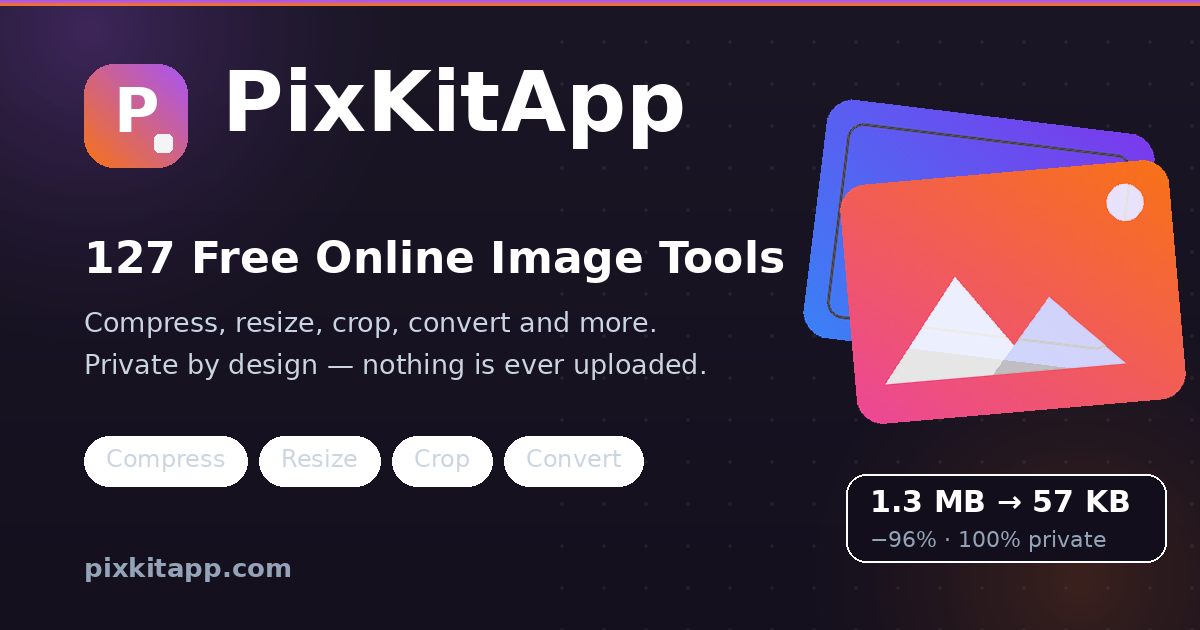
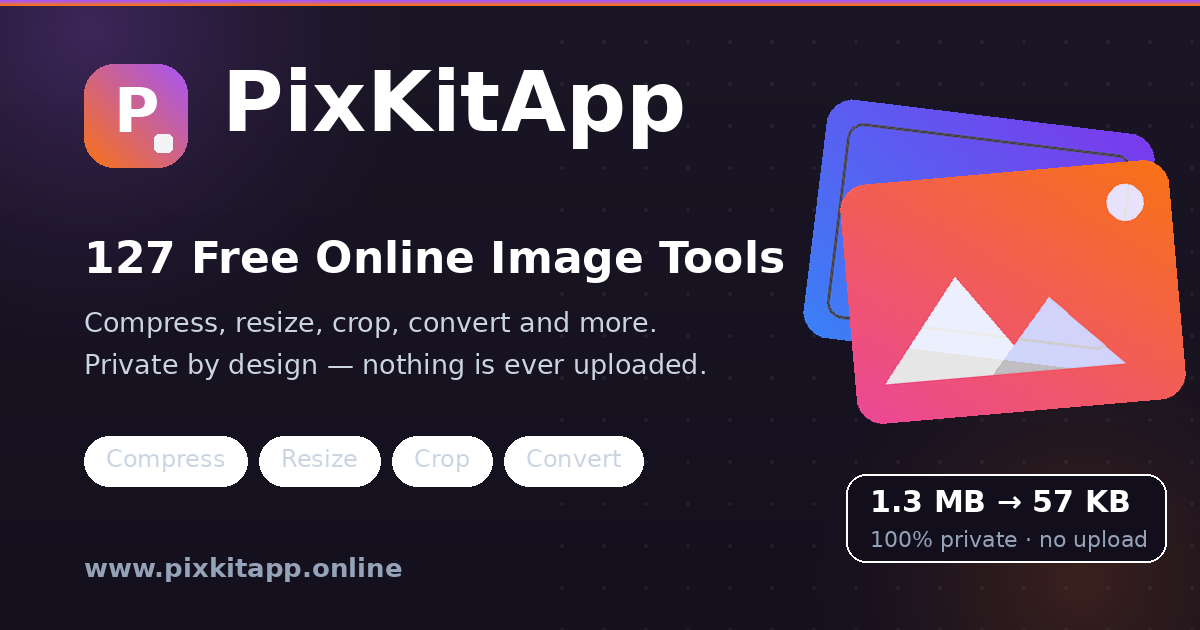
AdSense readiness: purge last old-domain references
- Regenerate og-default.png with www.pixkitapp.online baked in (was pixkitapp.com in pixels) and refresh legacy og-image.png to match
- Update gen-og-image.py output URL + README.md to the canonical production domain (www is canonical, apex/legacy 308 via src/proxy.ts)
- Point stale live-check QA scripts (privacy-nav-tests.mjs, preview-health-check.py) at the production domain
- Verified: build clean, lint clean in src/, tsc clean in src/, SEO suite ALL PASS (147 sitemap URLs, 164 internal links), GA4 G-VXJMF2PERB single global install confirmed

Changed region(s): [[0.0617, 0.8746, 0.3392, 0.9349], [0.7092, 0.8444, 0.9558, 0.8746]]

diff --git a/scripts/gen-og-image.py b/scripts/gen-og-image.py
@@ -5,7 +5,7 @@ Brand-consistent with the site: dark background (#1a1625), violet->orange
 gradient accent (matches public/logo.svg), Inter-like heavy sans (DejaVu Sans
 Bold is the closest installed), same wordmark treatment.
 
-Output: public/og-default.png — served at https://pixkitapp.com/og-default.png
+Output: public/og-default.png — served at https://www.pixkitapp.online/og-default.png
 """
 from PIL import Image, ImageDraw, ImageFilter, ImageFont
 import math
@@ -168,7 +168,7 @@ draw.text((pill_x + 24, pill_y + 10), "1.3 MB → 57 KB", font=f_stat, fill=WHIT
 draw.text((pill_x + 24, pill_y + 52), "100% private · no upload", font=f_stat_small, fill=FAINT)
 
 # ---- footer url ----------------------------------------------------------------
-draw.text((MARGIN_X, 552), "pixkitapp.com", font=f_url, fill=FAINT)
+draw.text((MARGIN_X, 552), "www.pixkitapp.online", font=f_url, fill=FAINT)
 
 # subtle top hairline gradient strip (brand)
 strip = vertical_gradient((W, 6), VIOLET, ORANGE).convert("RGBA")

diff --git a/scripts/preview-health-check.py b/scripts/preview-health-check.py
@@ -40,7 +40,7 @@ def main():
 
     # --- 2. Check every URL locally (concurrent) ---
     def check(u):
-        s, _, _ = fetch(u.replace("https://pixkitapp.com", LOCAL))
+        s, _, _ = fetch(u.replace("https://www.pixkitapp.online", LOCAL))
         return u, s
 
     bad = []

diff --git a/README.md b/README.md
@@ -5,7 +5,9 @@ user's browser** (Canvas API + built-in codecs). No uploads. No accounts. 147
 SEO-indexed static pages. Built with Next.js 16 (App Router, SSG), TypeScript,
 Tailwind CSS 4 and shadcn/ui.
 
-- Production URL: **https://pixkitapp.com**
+- Production URL: **https://www.pixkitapp.online** (canonical host — apex
+  `pixkitapp.online` and the legacy `pixkitapp.com` domain 308-redirect here,
+  see `src/proxy.ts`)
 - Every tool has a unique clean URL (e.g. `/image-compressor`, `/webp-to-jpg`,
   `/passport-photo-maker`), a working interface, live preview and download.
 
@@ -100,26 +102,32 @@ compatible with Vercel's build.
    (or skip until AdSense is approved).
 5. **Deploy.** First build ≈ 1–2 min; all 152 pages prerender.
 
-### Connect pixkitapp.com + HTTPS
+### Connect www.pixkitapp.online + HTTPS
 
-1. Vercel project → **Settings → Domains → Add** → `pixkitapp.com`, and add
-   `www.pixkitapp.com` as well (redirect www → apex, or vice-versa).
+The production domain is **`www.pixkitapp.online`** — this is the canonical
+host every sitemap/robots/canonical/OG URL is derived from (`SITE_URL` in
+`src/lib/tools/index.ts`). The apex and the legacy `.com` domain redirect to
+it with 308s (proxy-level, `src/proxy.ts`).
+
+1. Vercel project → **Settings → Domains → Add** → `pixkitapp.online`, then
+   add `www.pixkitapp.online` and set **www as primary** (apex → www redirect).
 2. At your registrar, point DNS per Vercel's instructions:
    - Apex `A` record → `76.76.21.21`
    - `www` `CNAME` → `cname.vercel-dns.com`
-3. HTTPS is automatic: Vercel provisions and renews Let's Encrypt certificates
-   for every connected domain — no manual step. Verify the padlock on
-   `https://pixkitapp.com` after DNS propagates (5 min – 48 h).
-4. Keep the canonical host consistent — the site's canonical tags point at
-   `https://pixkitapp.com` (no www), so leave www → apex redirect enabled.
+3. HTTPS is automatic: Vercel provisions and renews certificates for every
+   connected domain — no manual step. Verify the padlock on
+   `https://www.pixkitapp.online` after DNS propagates (5 min – 48 h).
+4. If the legacy `pixkitapp.com` domain is still owned, add it to the same
+   Vercel project and redirect it to `www.pixkitapp.online` (the app already
+   308s any legacy host it receives).
 
 ### Submit the sitemap to Google Search Console
 
-1. Create/verify the property for `https://pixkitapp.com` in
+1. Create/verify the property for `https://www.pixkitapp.online` in
    [search.google.com/search-console](https://search.google.com/search-console)
    (DNS TXT record verification is easiest while adding the domain).
 2. **Sitemaps → Add a new sitemap** → enter `sitemap.xml` → Submit.
-   (The live file is at `https://pixkitapp.com/sitemap.xml` — 147 URLs.)
+   (The live file is at `https://www.pixkitapp.online/sitemap.xml` — 147 URLs.)
 3. Use **URL Inspection** on key pages (`/`, `/image-compressor`,
    `/webp-to-jpg`, …) → "Request indexing" for the first batch.
 4. Revisit Coverage reports over the following weeks. Note: indexing and
@@ -129,11 +137,13 @@ compatible with Vercel's build.
 ### Test individual URLs
 
 ```bash
-curl -I https://pixkitapp.com/webp-to-jpg          # expect HTTP/2 200
-curl -s https://pixkitapp.com/sitemap.xml | grep -c "<loc>"   # expect 147
-curl -s https://pixkitapp.com/robots.txt
+curl -I https://www.pixkitapp.online/webp-to-jpg     # expect HTTP/2 200
+curl -s https://www.pixkitapp.online/sitemap.xml | grep -c "<loc>"   # expect 147
+curl -s https://www.pixkitapp.online/robots.txt
 # 404 behaviour
-curl -o /dev/null -w "%{http_code}\n" https://pixkitapp.com/does-not-exist   # 404
+curl -o /dev/null -w "%{http_code}\n" https://www.pixkitapp.online/does-not-exist   # 404
+# apex + legacy domain must 308-redirect to www
+curl -s -o /dev/null -w "%{http_code} %{redirect_url}\n" https://pixkitapp.online/
 ```
 
 ## 5. Verification tooling (scripts/)
@@ -156,8 +166,8 @@ All runnable locally against a build:
 - Three reserved slots: **below header**, **in-content** (between tool and
   guide / on homepage between sections), **pre-footer**. Each reserves its
   height (100–280px) to avoid layout shift, sits in normal document flow and
-  never overlaps controls. With no env vars set, they render labelled
-  placeholders and load **zero** third-party code.
+  never overlaps controls. With no env vars set, they render **nothing at
+  all** (no empty "Advertisement" boxes) and load **zero** third-party code.
 - Privacy claims are deliberately precise: images are processed in-browser and
   are never uploaded; the Privacy Policy accurately describes hosting logs,
   theme localStorage, and — in its own section — what activates if/when
@@ -169,8 +179,9 @@ All runnable locally against a build:
 Code-complete and verified (see worklog for test evidence). Items that require
 the site owner, by nature outside the codebase:
 
-1. **Domain + hosting** — connect pixkitapp.com on Vercel (§4). Until then the
-   site runs wherever this repo is deployed.
+1. **Domain + hosting** — `www.pixkitapp.online` is live and canonical; the
+   apex 308-redirects to it (§4). If the legacy `pixkitapp.com` domain is
+   still owned, point it at the same Vercel project (the app 308s it).
 2. **Contact inbox** — all contact references site-wide (Contact/Privacy/
    Terms and the form's mailto action) route to the owner's personal inbox
    **nihadmehar2@gmail.com**; no mailbox provisioning is needed.
